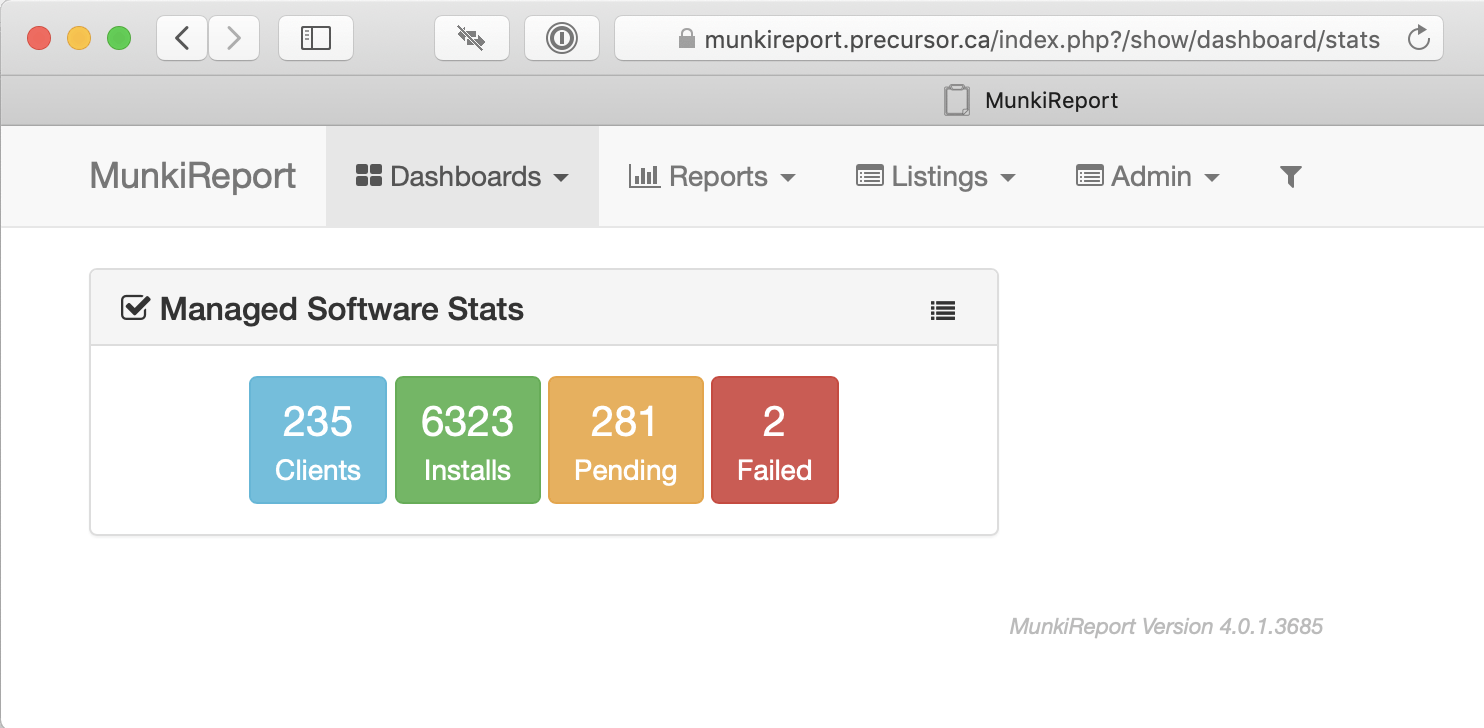
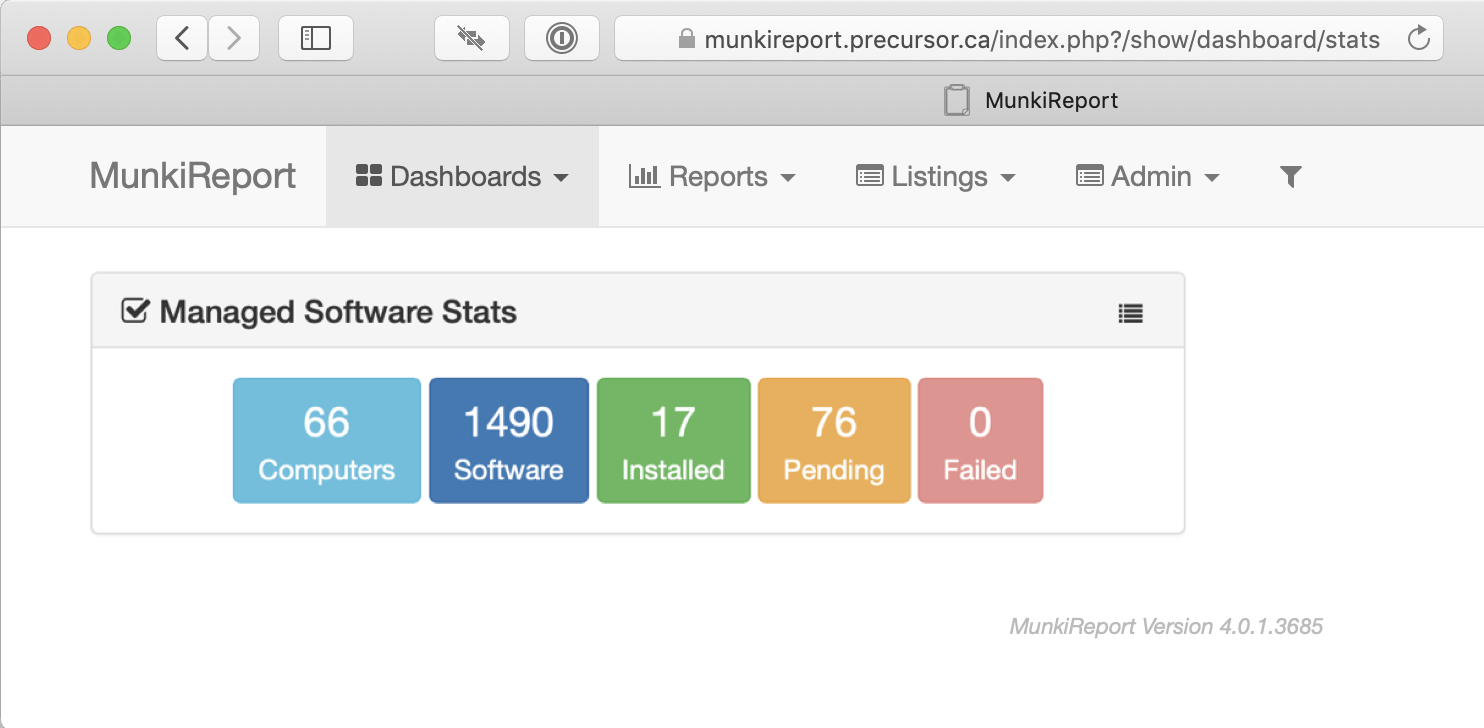
munki_stats_widget v1.0.3
A custom munkireport 4 munki_stats_widget to show stats in a similar way to early versions of munki report 2.

diff --git a/munki_stats_widget.php b/munki_stats_widget.php
@@ -28,6 +28,22 @@ $(document).on('appUpdate', function(e, lang) {
         panel.empty();
         
 
+		//If install_succeeded_munki array is missing use null to provide numerical zero
+		 if (data['install_succeeded_munki']==null) {
+         var munkiInstalled =  0 ;
+         } else {
+         var munkiInstalled = Number(data['install_succeeded_munki'].total_items);
+         }
+		//If install_succeeded__applesus array is missing use null to provide numerical zero
+         if (data['install_succeeded__applesus']==null) {
+         var appleInstalled =  0  ;
+         } else {
+         var appleInstalled = Number(data['install_succeeded__applesus'].total_items);
+         }
+		//Get successful install total;
+		 var totalInstalled = (munkiInstalled.valueOf() + appleInstalled.valueOf());
+
+
 		//If pending_installs_munki array is missing use null to provide numerical zero
 		 if (data['pending_install_munki']==null) {
          var munkiPending =  0 ;
@@ -46,18 +62,24 @@ $(document).on('appUpdate', function(e, lang) {
 		
         // Set blocks, disable if zero
         if(data['installed_munki'].clients!=null){
-            panel.append(' <a href="'+baseUrl+'" class="btn btn-info"><span class="bigger-150">'+data['installed_munki'].clients+'</span><br>'+i18n.t('client.clients')+'</a>');
+            panel.append(' <a href="'+baseUrl+'" class="btn btn-info"><span class="bigger-150">'+data['installed_munki'].clients+'</span><br>'+i18n.t('Computers')+'</a>');
         } else {
-            panel.append(' <a href="'+baseUrl+'" class="btn btn-info disabled"><span class="bigger-150">'+data['installed_munki'].clients+'</span><br>'+i18n.t('client.clients')+'</a>');
+            panel.append(' <a href="'+baseUrl+'" class="btn btn-info disabled"><span class="bigger-150">'+data['installed_munki'].clients+'</span><br>'+i18n.t('Computers')+'</a>');
         }
 
         if(data['installed_munki'].total_items!=null){
-            panel.append(' <a href="https://munkireport.precursor.ca/index.php?/module/managedinstalls/listing/#installed" class="btn btn-success"><span class="bigger-150">'+data['installed_munki'].total_items+'</span><br>'+i18n.t('Installs')+'</a>');
+            panel.append(' <a href="https://munkireport.precursor.ca/index.php?/module/managedinstalls/listing/#installed" class="btn btn-primary"><span class="bigger-150">'+data['installed_munki'].total_items+'</span><br>'+i18n.t('Software')+'</a>');
         } else {
-            panel.append(' <a href="'+baseUrl+'" class="btn btn-success disabled"><span class="bigger-150">'+data['installed_munki'].total_items+'</span><br>'+i18n.t('Installs')+'</a>');
+            panel.append(' <a href="'+baseUrl+'" class="btn btn-primary disabled"><span class="bigger-150">'+data['installed_munki'].total_items+'</span><br>'+i18n.t('Software')+'</a>');
         }
 
-        if(totalPending != "0"){
+        if(totalInstalled != "0"){
+            panel.append(' <a href="https://munkireport.precursor.ca/index.php?/module/managedinstalls/listing/#install_succeeded" class="btn btn-success"><span class="bigger-150">'+totalInstalled+'</span><br>'+i18n.t('Installed')+'</a>');
+        } else {
+            panel.append(' <a href="'+baseUrl+'" class="btn btn-success disabled"><span class="bigger-150">'+"0"+'</span><br>'+i18n.t('Installed')+'</a>');
+        }
+
+       if(totalPending != "0"){
         	panel.append(' <a href="https://munkireport.precursor.ca/index.php?/module/managedinstalls/listing/#pending_install" class="btn btn-warning"><span class="bigger-150">'+totalPending+'</span><br>'+i18n.t('pending')+'</a>');
         } else {
             panel.append(' <a href="'+baseUrl+'" class="btn btn-warning disabled"><span class="bigger-150">'+"0"+'</span><br>'+i18n.t('pending')+'</a>');

diff --git a/README.md b/README.md
@@ -1,44 +1,41 @@
-# munki-stats-widget
+# Custom MunkiReport Munki Stats Widget
 
-> v. 1.0.2 
+> v. 1.0.3 
 > January 8, 2019  
 > Alex Narvey / Precursor.ca  
 
-![Munki Stats Widget](https://github.com/precursorca/munki-stats-widget/blob/master/munki_stats_widget.png)
 
-A custom MunkiReport 4.0 Stats Widget to show statistics similar to early versions of Munki.
+A custom MunkiReport 4.0 Stats Widget to show statistics similar to early versionss of Munki.
 
 No warrantee is offered. Neither express nor implied. Use at your own risk.
 
 To use:
 
-1) Replace the function in managedinstalls_controller.php with the on in Custom Get_Stats.txt.
-(Thanks to John Eberle for providing this custom function)
+1) Place the munki_stats_widget.php file inside the local/views/widgets directory of MunkiReport 4
 
-2) Place the munki_stats_widget.php file inside the local/views/widgets directory of MunkiReport 4
-
-3) Call it from a dashboard or make a custom dashboard with a .yml file in /local/dashboards
+2) Call it from a dashboard or make a custom dashboard with a .yml file in /local/dashboards
 
 Notes:
 
-- The stats come from the get_Stats function in the ManagedInstalls module.
+- The stats come from the Get_Stats function in the ManagedInstalls module.
 - In this case John Eberle modified the Get_Stats function to help pick out the correct arrays with JQuery.
 - The period is 720 hours (one month).
 - The formatting is borrowed from the MS_Office module.
-- The Pending count is a total of Pending Munki Installs and Pending AppleSUS Installs
-- Arjen van Bochoven schooled me on dealing with null array elements
+- The Installs count is a total of Succesful_Installs_Munki_Installs and Successful_Installs_AppleSUS.
+- The Pending count is a total of Pending Munki Installs and Pending AppleSUS Installs.
+- Arjen van Bochoven schooled me on dealing with null array elements.
 
+Release Notes:
 
-* January 8, 2019 Version 1.0.2 - Now based on John Eberle's custom Get_Stats function. 
-Now deals properly with empty arrays by displaying a disabled zero button such as when there are no pending installs or no failed installs.
-Changed the Button urls to get to appropriate items. Edited the button labels to standardize capitalization.
-Tested with Machine Group filtering.
+* January 8, 2019 Version 1.0.3 - Added an Installs button for successful installs to show what has been updated (combining successful munki and applesus installs). Renamed "Clients" to "Computers", and "Installs" to "Software" (to indicate what is managed). Updated the grahpic to show new button. 
+* January 8, 2019 Version 1.0.2 - Now based on John Eberle's custom Get_Stats function. Now deals properly with empty arrays by displaying a disabled zero button such as when there are no pending installs or no failed installs. Changed the Button urls to get to appropriate items. Edited the button labels to standardize capitalization. Tested with Machine Group filtering.
 * January 7, 2019 Version 1.0.1 - Some bug fixes to pending and data calls.
 * January 7, 2019 Version 1.0
 
+
 ## Contributors
 * Alex Narvey
-* John Evberle
+* John Eberle
 * Arjen van Bochoven
 
 —
